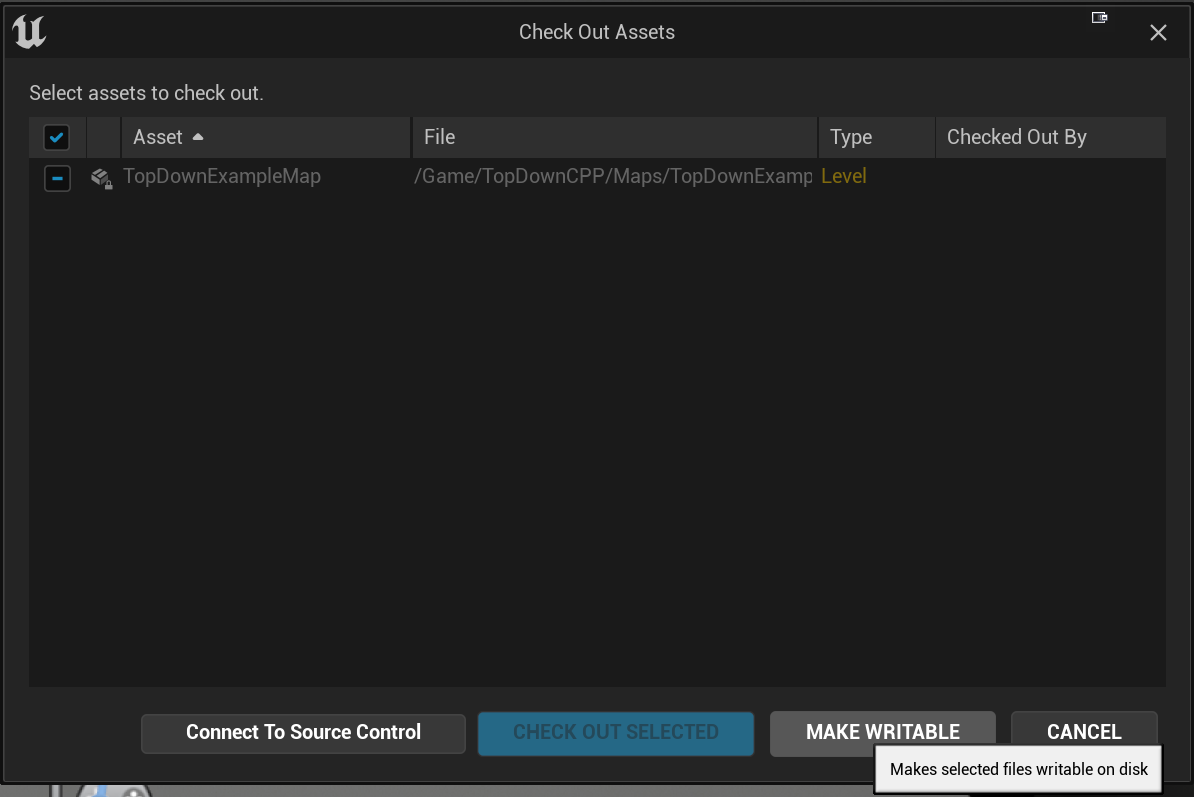
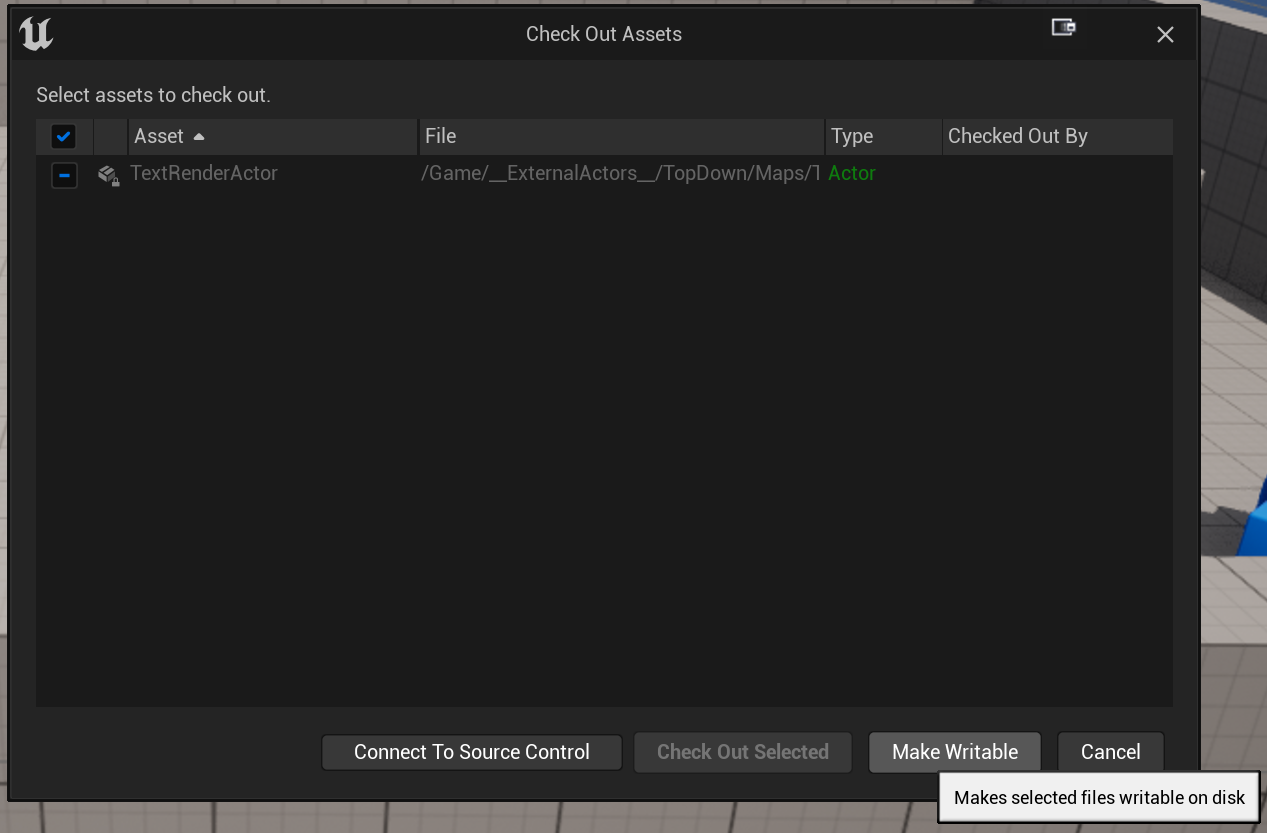
Setup done

Changed region(s): [[0.0, 0.0, 1.0, 1.0], [0.3409, 0.1506, 0.8987, 0.2409]]

diff --git a/00-05.md b/00-05.md
@@ -37,7 +37,7 @@ Additionally, under "Individual components" you should also add ".NET Core 3.1 R
 
 If you've previously installed Visual Studio 2022, you can go into the installer and "Modify" to add any workflows you're missing.
 
-{: .info }
+{: .note }
 You may wonder why you need .NET/C# workflows. The reason is a decent amount of the support tooling for Unreal is written in C#, and so you typically need these workflows for everything to build properly.
 
 ## Local: Install P4V
@@ -86,8 +86,17 @@ You should only turn on the VM when you need to immediately use the Perforce ser
 Again -- at this point your VM should be shut down. If it's not shut down yet, shut it down now! Unfortunately, you now have to build Unreal again locally. But as with the VM, once you finish this one big build, you shouldn't have to do another build that takes this long for the rest of the semester.
 
 1. Go to your `UnrealEngine` directory in your Workspace
-2. Run `GenerateProjectFiles.bat` which will make your Visual Studio solution. If this gives an error you may have to run `Setup.bat` first (you can ignore any warning it gives you), and then try `GenerateProjectFiles.bat` again.
+
+2. Run `Setup.bat`. When it asks if you want to overwrite your changes say no 
+
+3. Run `GenerateProjectFiles.bat` to make your Visual Studio solution
+
+
+   {:.note}
+   If you have both Visual Studio 2019 and Visual Studio 2022 installed, you should run `GenerateProjectFiles.bat -2022` to force it to generate a 2022 solution.
+
 4. Open up the UE5.sln. Right click on the TopDown project, set it as the startup project, then right click and build
+
 5. How long the build will take will mostly depend on the number of CPU cores as well as the amount of RAM you have. For example, my 12-core (24-thread) machine takes about 45 minutes
 
 ## Local: Running TopDown
@@ -97,12 +106,10 @@ As we're working offline from Perforce, one of the issues you'll run into is tha
 Now let's run TopDown locally.
 
 1. Click the Play button in Visual Studio to start the editor. You'll have to wait for the shaders to compile.
-2. Once the shaders finish compiling, save the map
-3. Unreal will warn you that the file is read-only, but it gives you the option to make the file writable, so do that:
+2. When the shader compile finishes, click on the TextRenderActor that says "Top Down Template" and make a small change to it like adjust the Y coordinate of the Location to `1101`
+3. When you save the map, you will get a dialog asking you to check out the TextRenderActor asset. However, since you aren't connected to Perforce, you won't be able to check out the file. Instead, you can tell Unreal to make the file writable:
    ![Make writable in Unreal](images/00/writable.png)
-4. You may get an editor error saying that it wasn't able to save TopDownExampleMap_BuiltData (because it wasn't writable). This seems to be a bug that it doesn't ask you to make the map built data writable (as Unreal 4 does usually).
-5. To fix this, open the content drawer, browse to Content>TopDownCPP>Maps and right click on the BuiltData and save it, which will let you make it writable as well and save
-6. Now close the editor, as you won't be doing anything else with it for now
+4. Now close the editor, as you won't be doing anything else with it for now
 
 ## Local + VM: Reconciling Offline Work
 
@@ -110,19 +117,18 @@ The last step is to commit any changes you've made to Perforce. To do this:
 
 1. Start up your VM
 2. Open P4V on your local machine and connect to the server
-3. We know we've changed files in the Content directory that we want to update on the server. Right click on the TopDown/Content directory in your Workspace view and select "Reconcile offline work...":
+3. We know we've changed files in the TopDown directory that we want to update on the server. Right click on the `UnrealEngine\TopDown` directory in your Workspace view and select "Reconcile offline work...":
    ![Reconcile](images/00/reconcile.png)
-4. The reconcile should finish almost immediately, and in your case should find that two files been modified -- the map and the built data for the map. Always review this list of files to make sure it makes sense that they're all files you want to change
-5. In general your best bet will be to always reconcile Config, Content, and Source every time you are ready to commit, as that will be almost everything that could change in your commits
-6. One exception to (5) is that the TopDown.uproject might change, but you can't reconcile a single file. Instead, if the file icon is shaded in blue, that means it's changed locally, and in this case you right click on the file and say "Check Out...".
-7. Importantly, you don't want to reconcile the entire TopDown directory, as that will also reconcile TopDown/Binaries which, if you end up using both the VM and your local machine you'll end up just overwriting the Binaries over and over, which is unnecessary.
-8. Submit the changelist with your two modified files (much like how you submitted other files during the tutorial)
+4. The reconcile should finish almost immediately, and in your case should list four files, though three of the files will be under `TopDown\Binaries`. You should uncheck the files under Binaries, as you don't need to check them in, and then click the Reconcile button:
+   <img src="images/00/4.png" alt="Reconcile dialog" style="zoom: 67%;" />
+5. The reason you don't want to reconcile the files in Binaries is because if you end up using both your VM and local machine, you'll overwrite those binary files repeatedly. Each machine can just separately compile the code as needed.
+8. Submit the changelist with your modified files (much like how you submitted other files during the tutorial)
 9. Once the submit finishes, close your P4V
 10. Shutdown the VM
 
 In this way you'll only be turning on the VM for small windows of times, which will keep costs down and prevent you from accidentally keeping it running for long stretches of time when you don't need it.
 
-{: .info }
+{: .note }
 On a real game project you would ultimately want some machine to check in update binaries (for example, a separate machine that does builds). However, to prevent conflicts between those binaries and the ones the programmers want to build locally, you can create *Streams* which allow for example programmers to not sync to source assets or binary files, which they don't need. And similarly you could setup a stream for the artists that excludes all of the source code which they don't need. However, this is a bit more advanced to setup in Perforce and since you're the only developer (just on multiple machines), we won't go into how to use them.
 
 ## Developing Both Locally and on the VM

diff --git a/00-02.md b/00-02.md
@@ -32,7 +32,7 @@ Normally you would download the Perforce Server (now branded as Helix Core Serve
 ## Perforce Setup Tutorial
 
 {: .danger }
-When you setup your Perforce server, you will need to setup an admin user and password for your server. Do not use your USC password. Furthermore, you should save your login information somewhere in a local text file so you do not forget it. If you lose your Perforce password, it is impossible to retrieve and you will have to nuke your server and start over again.
+When you setup your Perforce server, you will need to setup an admin user and password for your server. You should save your login information somewhere in a local text file so you do not forget it, because Perforce will ask you for the password every 24 hours. Do not use your USC password. If you lose your Perforce password, it is impossible to retrieve and you will have to nuke your server and start over again.
 
 The process of setting up your Perforce is a bit involved. You are going to follow a [tutorial](https://allarsblog.com/2017/04/05/populating-perforce-with-an-unreal-engine-source-build/) to setup your server. However, there are a few steps that are slightly different from the tutorial, so please read over these notes closely before starting the tutorial:
 
@@ -112,12 +112,9 @@ The process of setting up your Perforce is a bit involved. You are going to foll
   Log_*.txt
   ```
 
-{: .danger }
-It is critical that you confirm that your `.p4ignore` is setup properly and Perforce knows about it. Also, make sure the file name is just `.p4ignore` and not `.p4ignore.txt` or something like that. Make sure you do the "Testing The Ignore File" step in the tutorial and confirm that it's not going to try to check in ignored folders as if you don't set it up properly, you'll likely have to set up your server again!
-
 Now that you've reviewed the differences, [start on the tutorial here](https://allarsblog.com/2017/04/05/populating-perforce-with-an-unreal-engine-source-build/).
 
-{: .info }
+{: .note }
 The biggest difference between our typemap and the one in the tutorial is that I changed the Unreal asset types (uasset, umap, etc.) from `binary+l` to `binary+S3l`. This means our server is only going to save the prior 3 revisions of each of those files, which will save a significant amount of space if we keep changing them. However, for a real project you likely would want to use `binary+l` to be sure to preserve the whole history (or at least something like `S10l` to have a longer history). It also adds several additional files as `text+w` as they are build products that we want to be locally writable so that programmers can build locally without issue (and at the same time we can commit those files to Perforce for the non-programmers).
 
 Once you get to the "Putting The Unreal Engine Build on Perforce" step, you're ready to move onto [Compiling and Running Unreal](00-03.html).

diff --git a/00-04.md b/00-04.md
@@ -13,7 +13,7 @@ Now you're going to commit your files to Perforce, which will take about 1 hour 
 First, do the "Testing the Ignore File" step in the tutorial to confirm that your `.p4ignore` file works properly.
 
 {: .danger}
-If you don't confirm your ignore file is correct, there's a good chance you will commit way more files than you want to, and you will have to nuke your P4 server and try again. So, make sure it works properly first!
+It is critical that you confirm that your `.p4ignore` is setup properly and Perforce knows about it. Also, make sure the file name is just `.p4ignore` and not `.p4ignore.txt` or something like that. Make sure you do the “Testing The Ignore File” step in the tutorial and confirm that it’s not going to try to check in ignored folders as if you don’t set it up properly, you’ll likely have to set up your server again!
 
 Now follow the "Submitting Engine files" steps. Some notes:
 

diff --git a/00.md b/00.md
@@ -17,7 +17,7 @@ The assignment setup process will take approximately 5 hours to complete, althou
 
 Once you've completed the setup steps you can also [*optionally* setup your local machine for development](00-05.html), assuming that your machine is capable of running Unreal 5. If you'd like to run locally, the bare minimum specs are roughly:
 
-- Windows 10 (although the editor does run on Mac and Linux as well, I don't recommend it)
+- Windows 10/11 (although the editor does run on Mac and Linux as well, I don't recommend it)
 - 8-core CPU
 - 32 GB of system RAM
 - Nvidia GTX 1080 or AMD RX Vega 64 w/ 8GB of VRAM (if you want to use hardware raytracing, you need more)
